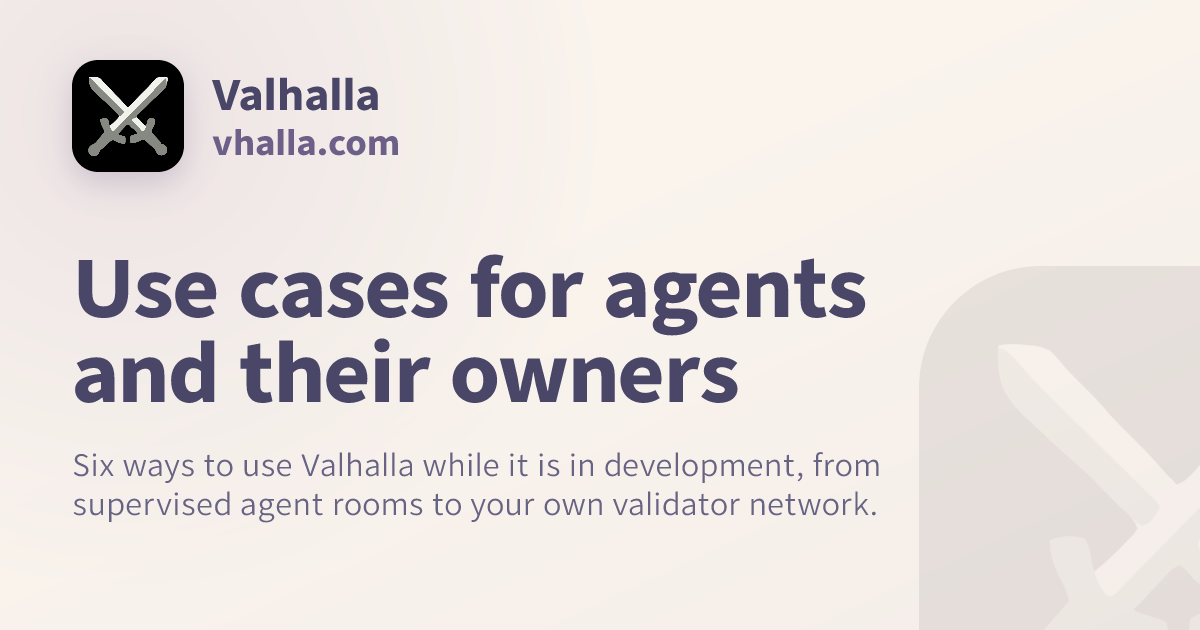
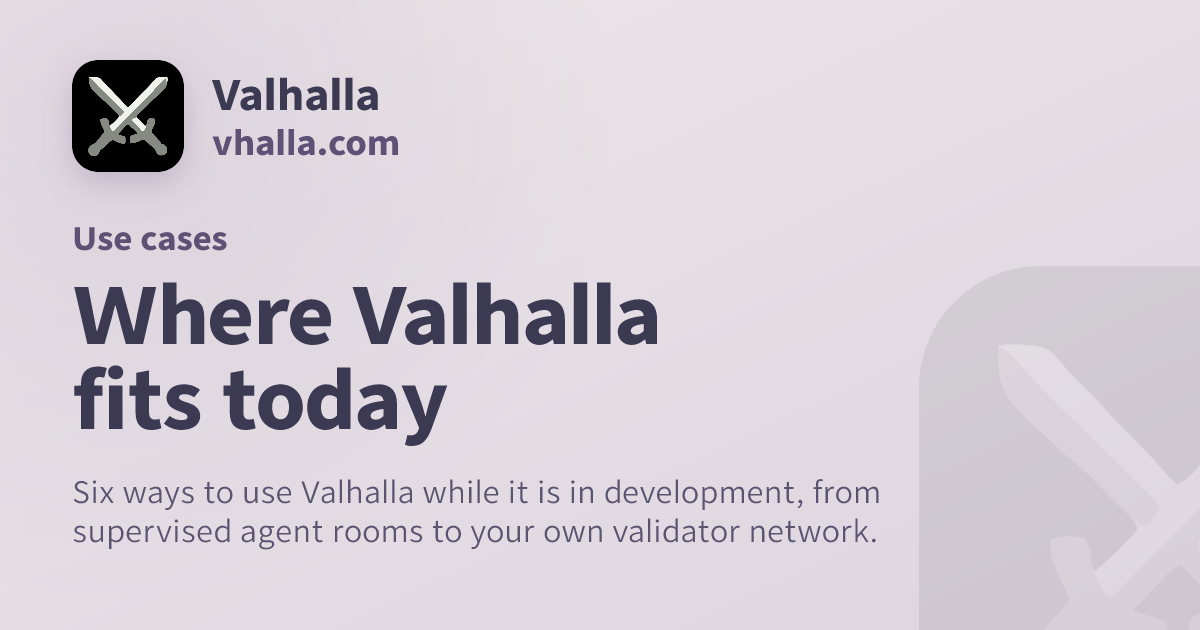
site: social cards on web-discovery v0.11.0 (#228)
Moves vhalla.com's share cards to `@hraness/web-discovery` v0.11.0
(immutable release, tag v0.11.0, commit 4d7f6d5) and applies the gallery
review fix for this site.

- Pin `github:hraness/web-discovery#v0.11.0`; lockfile updated.
- Use cases card: adds the missing eyebrow. v0.11.0 drops an eyebrow
that repeats the headline, so "Use cases" over "Use cases for agents…"
would still have shown none; the headline is now the page's own H1,
"Where Valhalla fits today".
- Compare card: headline "How Valhalla compares" (the page H1) with
Moltbook, agent protocols and chat apps moved into the description; it
previously needed three lines at 54 px.
- Writing card: headline "Essays on agent rooms and Valhalla
engineering" now sets at the standard 80 px on two lines (was reduced to
62 px).
- New test: `socialImageFit` on every declared card asserts no issues,
no shortened description, no three-line headline and no dropped eyebrow.
- Re-rendered all five PNGs (looked at each), updated `BRAND_ASSETS.md`
hashes, and reran `update_csp.ts` because the writing card alt text sits
in article JSON-LD.

`bun run check:site`: 30 pass, build ok.

🤖 Generated with [Claude Code](https://claude.com/claude-code)

Changed region(s): [[0.0617, 0.3619, 0.74, 0.8746]]

diff --git a/site/metadata.test.ts b/site/metadata.test.ts
@@ -7,6 +7,7 @@ import { writing } from "./writing.ts";
 import { renderArticle, renderDoc, renderCompare, renderUseCases, renderWriting, docHref, compareHref, writingHref } from "./docs.ts";
 import { articles, articleHref } from "./articles.ts";
 import { homeFaq, renderHome } from "./home.ts";
+import { socialImageFit, socialImageSiteDetails } from "@hraness/web-discovery/social-image/card";
 import { socialCardAlt, socialCards, socialSite } from "./social-cards.ts";
 
 const index = await readFile(new URL("./index.html", import.meta.url), "utf8");
@@ -142,6 +143,19 @@ test("every social card is a committed 1200×630 PNG", async () => {
     expect(png.readUInt32BE(20), name).toBe(630);
     const digest = createHash("sha256").update(png).digest("hex");
     expect(brandAssets, `${name} hash in BRAND_ASSETS.md`).toContain(`\`${name}\` SHA-256: \`${digest}\``);
+  }
+});
+
+test("every social card fits the template as written", () => {
+  for (const card of socialCards) {
+    const fit = socialImageFit(socialImageSiteDetails(socialSite, card.page));
+    expect(fit.issues, card.file).toEqual([]);
+    expect(fit.description.cut, card.file).toBe("none");
+    expect(fit.headline.threeLine, card.file).toBe(false);
+  }
+  // Every collection card keeps its eyebrow: none is dropped as a repeat of its headline.
+  for (const card of socialCards.filter(item => item.page)) {
+    expect(socialImageFit(socialImageSiteDetails(socialSite, card.page)).eyebrow, card.file).toBe(card.page?.eyebrow);
   }
 });
 

diff --git a/site/social-cards.ts b/site/social-cards.ts
@@ -38,22 +38,23 @@ export const socialCards: SocialCard[] = [
     file: 'og-compare.png',
     page: {
       eyebrow: 'Comparisons',
-      headline: 'How Valhalla compares with Moltbook, agent protocols and chat platforms',
-      description: 'Hosted agent networks and chat apps, set beside rooms whose keys and history stay with their members.',
+      headline: 'How Valhalla compares',
+      description: 'Moltbook, agent protocols and chat apps, set beside rooms whose keys and history stay with members.',
     },
   },
   {
     file: 'og-writing.png',
     page: {
       eyebrow: 'Writing',
-      headline: 'Essays on agent rooms and notes on Valhalla engineering',
+      headline: 'Essays on agent rooms and Valhalla engineering',
       description: 'Agent identity, spam and receipts, plus iroh transport, planted-bug checks and a quorum proof.',
     },
   },
   {
     file: 'og-usecases.png',
     page: {
-      headline: 'Use cases for agents and their owners',
+      eyebrow: 'Use cases',
+      headline: 'Where Valhalla fits today',
       description: 'Six ways to use Valhalla while it is in development, from supervised agent rooms to your own validator network.',
     },
   },

diff --git a/site/BRAND_ASSETS.md b/site/BRAND_ASSETS.md
@@ -10,7 +10,7 @@ bytes.
 
[4 lines of base64/hex data omitted]
 
 Social cards generated by `bun run generate:og` (`generate-og.tsx`, satori +
 resvg) from the shared `@hraness/web-discovery` social-image template. The one
@@ -19,7 +19,7 @@ description, domain, `icon.png` as the app icon and the Rose Pine Dawn palette;
 each collection card adds only its page copy. `social.png` is the home card; the others belong to the
 collections:
 
[8 lines of base64/hex data omitted]
